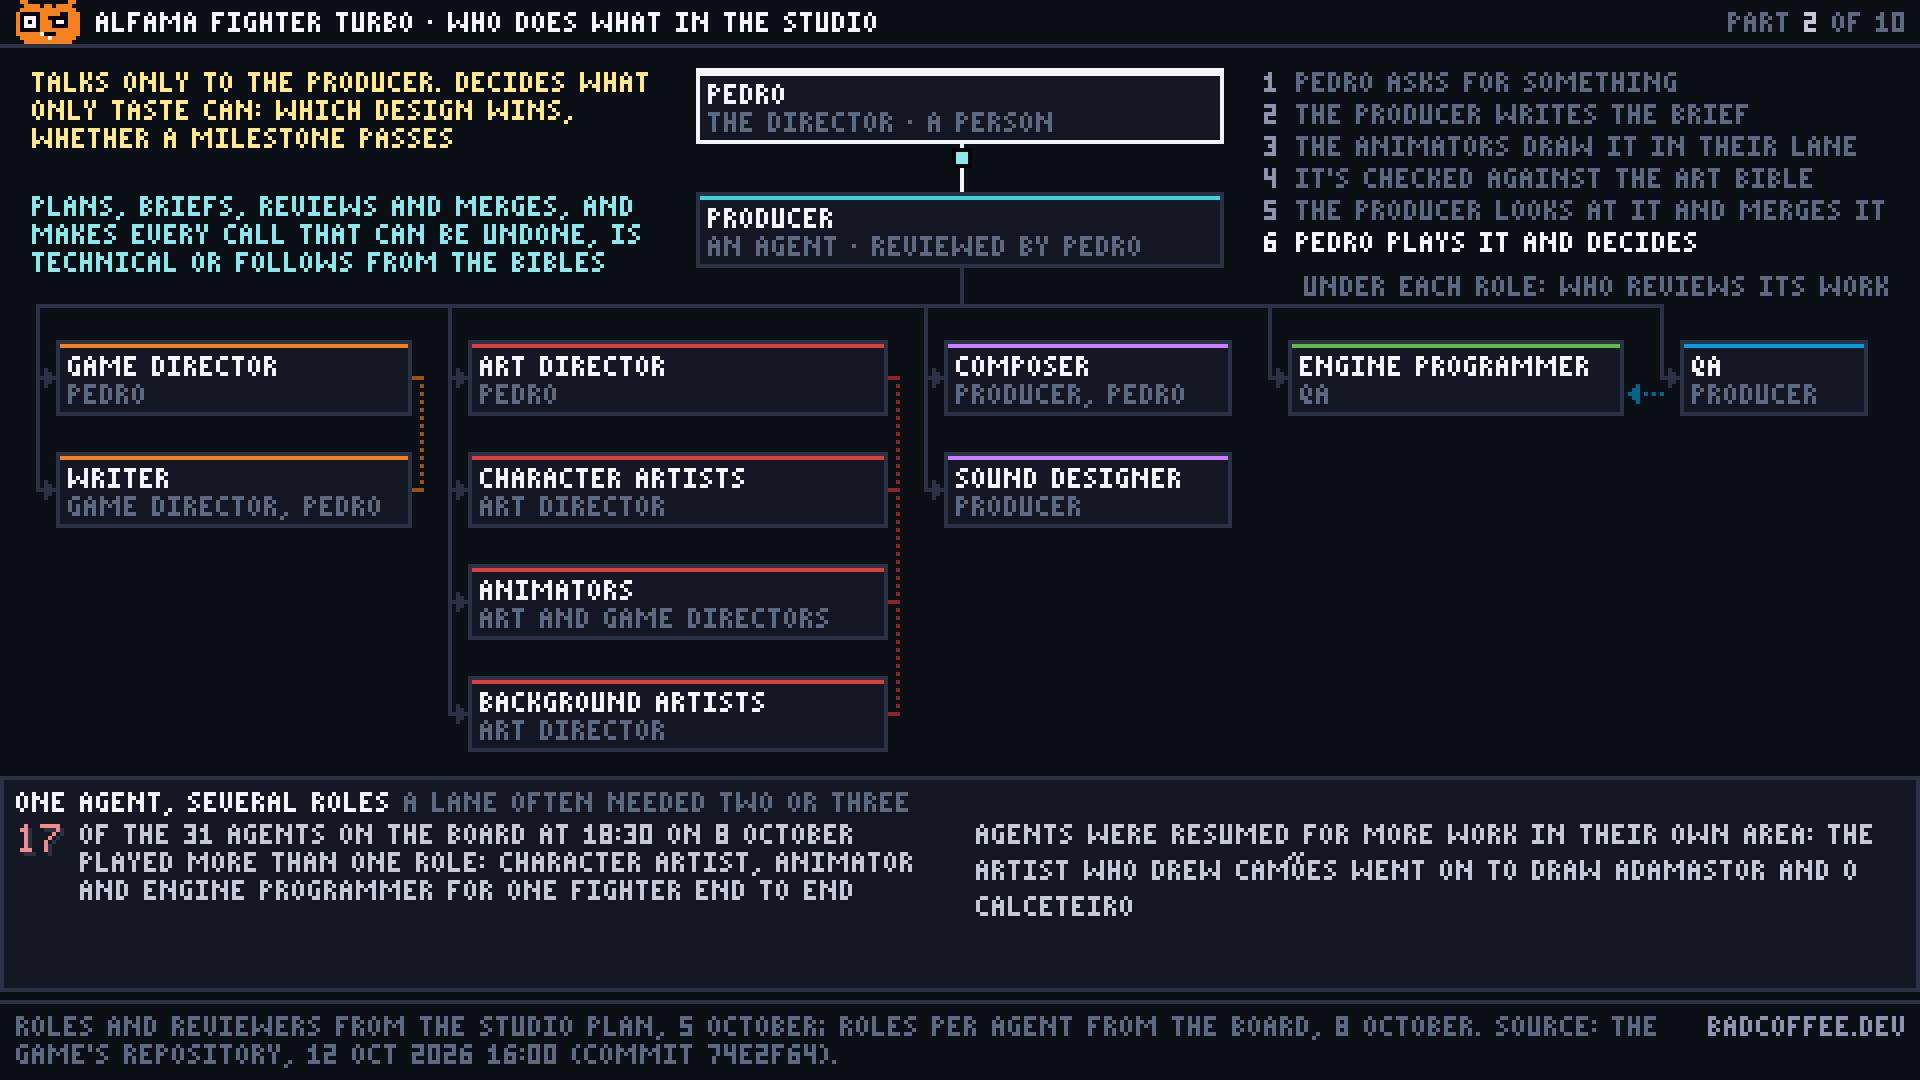
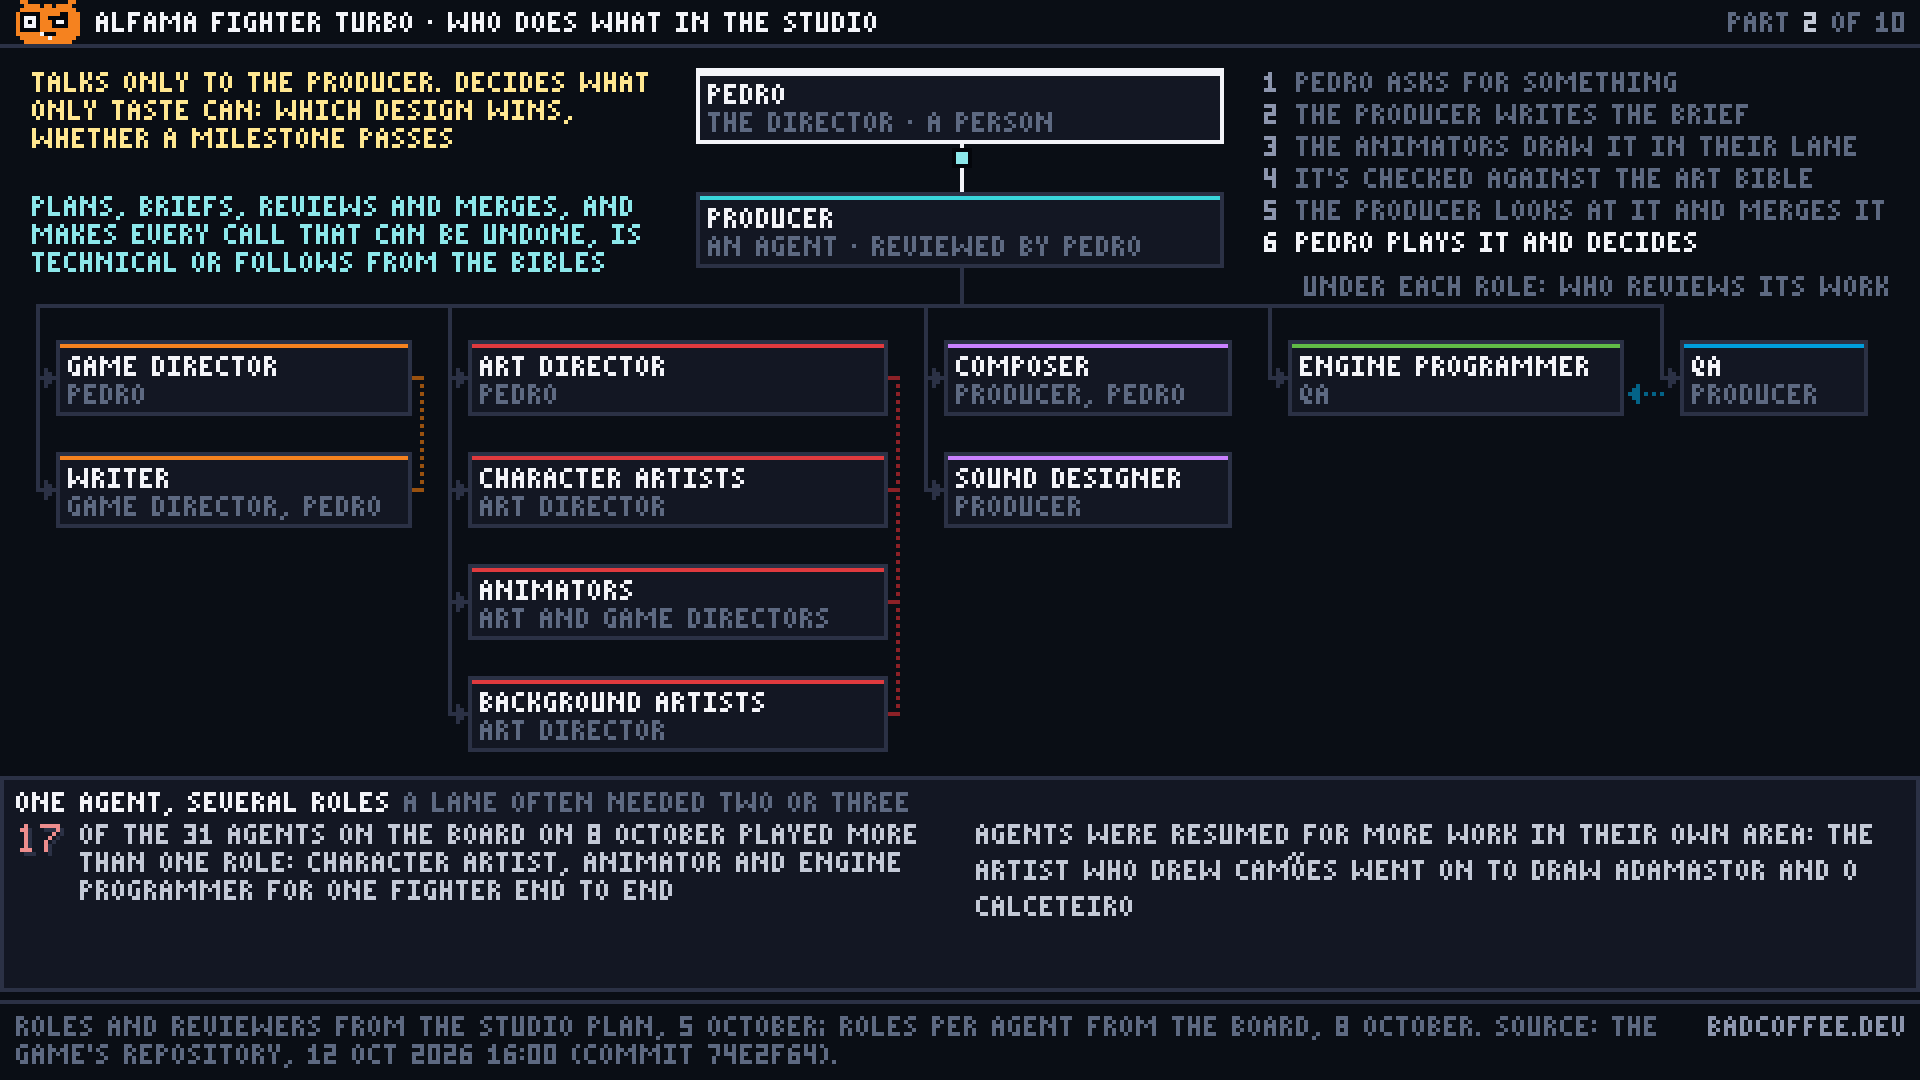
Making Alfama Fighter Turbo, part 2: the memory diagram counts the log's entries from agents, and the cast diagram's note drops its time

Changed region(s): [[0.0312, 0.7639, 0.4688, 0.8556]]

diff --git a/projects/alfama-fighter-turbo/02-2_memory.py b/projects/alfama-fighter-turbo/02-2_memory.py
@@ -6,9 +6,11 @@ log winning over the art bible; the lane works, then writes its as-built note ba
 
 Numbers and sources (alfamafighterturbo at 74e2f64):
 - The documents and their jobs: docs/studio/studio-model.md, "The documents are the studio's memory".
-- 11 rows "Asked and answered" and 250 "Recommendations accepted": docs/studio/decisions.md (count of
-  table rows, headers excluded). Shown as "250 more calls", since 133 of the 250 are the producer's or
-  another role agent's own calls rather than recommendations Pedro accepted.
+- 261 entries: 11 rows "Asked and answered" and 250 "Recommendations accepted" in docs/studio/decisions.md
+  (count of table rows, headers excluded). 133 of the 250 name the producer (68) or another role agent
+  (65); shown as "133 from agents", since about seven of those are designs put to Pedro for approval
+  rather than calls the agents made. The rest are Pedro's (94, plus the 11) or the 23 bible answers he
+  took in one go.
 - 20 feature designs and plans besides the design document and the studio plan: docs/plans/ (22 files).
 - The disagreement: the art bible's size classes put A Padeira in "large", 106 to 112 px (art bible,
   section 2.1's table); the decisions log, 7 October: "A Padeira keeps her size: 95–100 px upright"; the
@@ -65,8 +67,8 @@ def draw(c, t):
                 y += 8
             y += 1
         if key == "log":
-            c.spans(docs.x + 12, y, [("11", "white"), (" ASKED AND ANSWERED · ", "dim"), ("250", "white"),
-                                     (" MORE CALLS", "dim")])
+            c.spans(docs.x + 12, y, [("261", "white"), (" ENTRIES · ", "dim"), ("133", "white"),
+                                     (" FROM AGENTS", "dim")])
             y += 9
 
     # The lane, on the right, joined to the documents by a line down the gutter.

diff --git a/projects/alfama-fighter-turbo/02-1_cast.py b/projects/alfama-fighter-turbo/02-1_cast.py
@@ -112,7 +112,7 @@ def draw(c, t):
     note = c.panel(0, note_y, c.w, bottom - note_y - 2, "ONE AGENT, SEVERAL ROLES", color="white",
                    sub="A LANE OFTEN NEEDED TWO OR THREE")
     c.text(note.x, note.y, "17", c.light(ART), font="large", shadow="line")
-    c.paragraph(note.x + 16, note.y, "OF THE 31 AGENTS ON THE BOARD AT 18:30 ON 8 OCTOBER PLAYED MORE THAN ONE ROLE: "
+    c.paragraph(note.x + 16, note.y, "OF THE 31 AGENTS ON THE BOARD ON 8 OCTOBER PLAYED MORE THAN ONE ROLE: "
                 "CHARACTER ARTIST, ANIMATOR AND ENGINE PROGRAMMER FOR ONE FIGHTER END TO END", 212, "text")
     c.paragraph(note.x + 240, note.y, "AGENTS WERE RESUMED FOR MORE WORK IN THEIR OWN AREA: THE ARTIST WHO DREW "
                 "CAMÕES WENT ON TO DRAW ADAMASTOR AND O CALCETEIRO", note.w - 240, "text")
